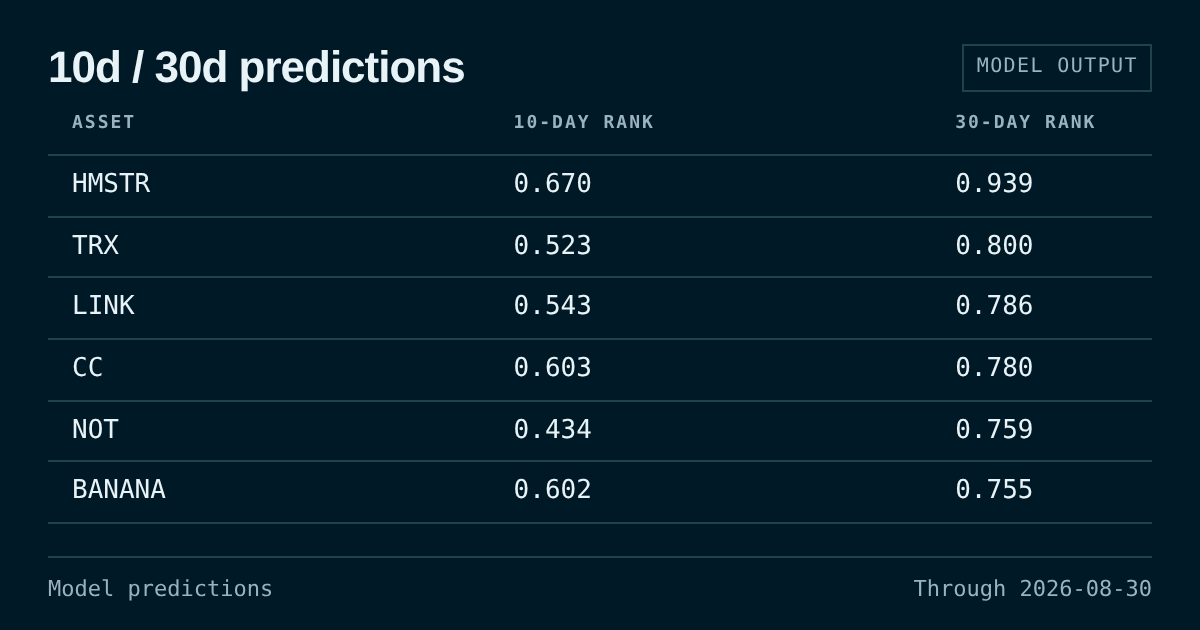
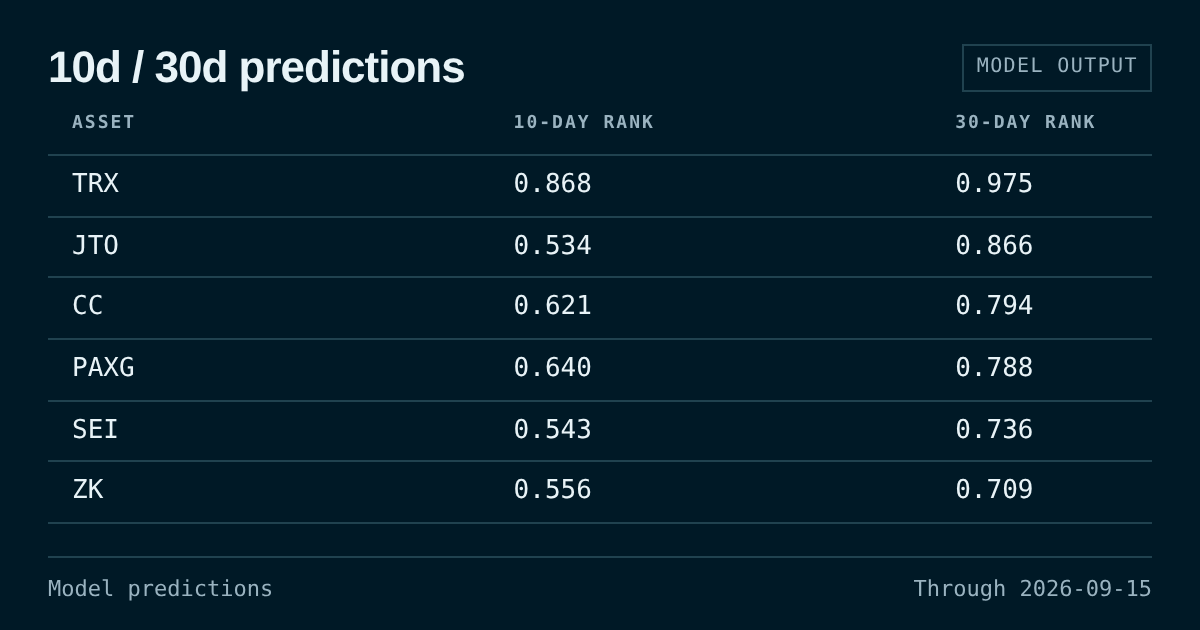
Thumbnails: the capture cache keeps the file extension, and every preview is re-rendered

diff --git a/scripts/thumbnails.py b/scripts/thumbnails.py
@@ -215,7 +215,10 @@ def read_only_client(cache):
         return request(self, method, endpoint, *args, **kwargs)
 
     def cached(self, endpoint, dest_path, description):
-        path = cache / hashlib.sha256((self.base_url + endpoint).encode()).hexdigest()
+        # The destination's extension picks the format, so the cache keeps it.
+        suffix = Path(dest_path).suffix
+        digest = hashlib.sha256((self.base_url + endpoint + suffix).encode()).hexdigest()
+        path = cache / f"{digest}{suffix}"
         if not path.exists():
             download(self, endpoint, str(path), description)
         shutil.copyfile(path, dest_path)
